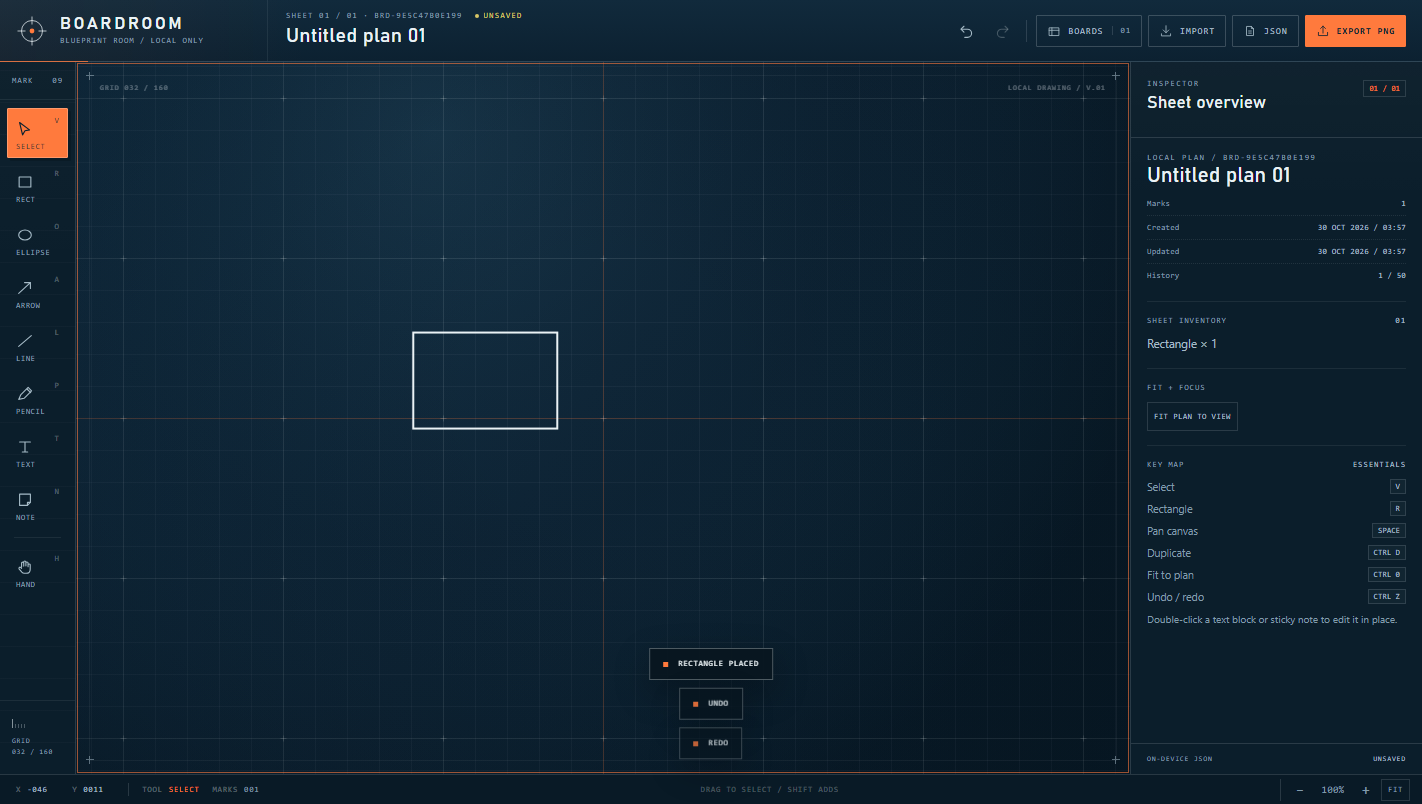
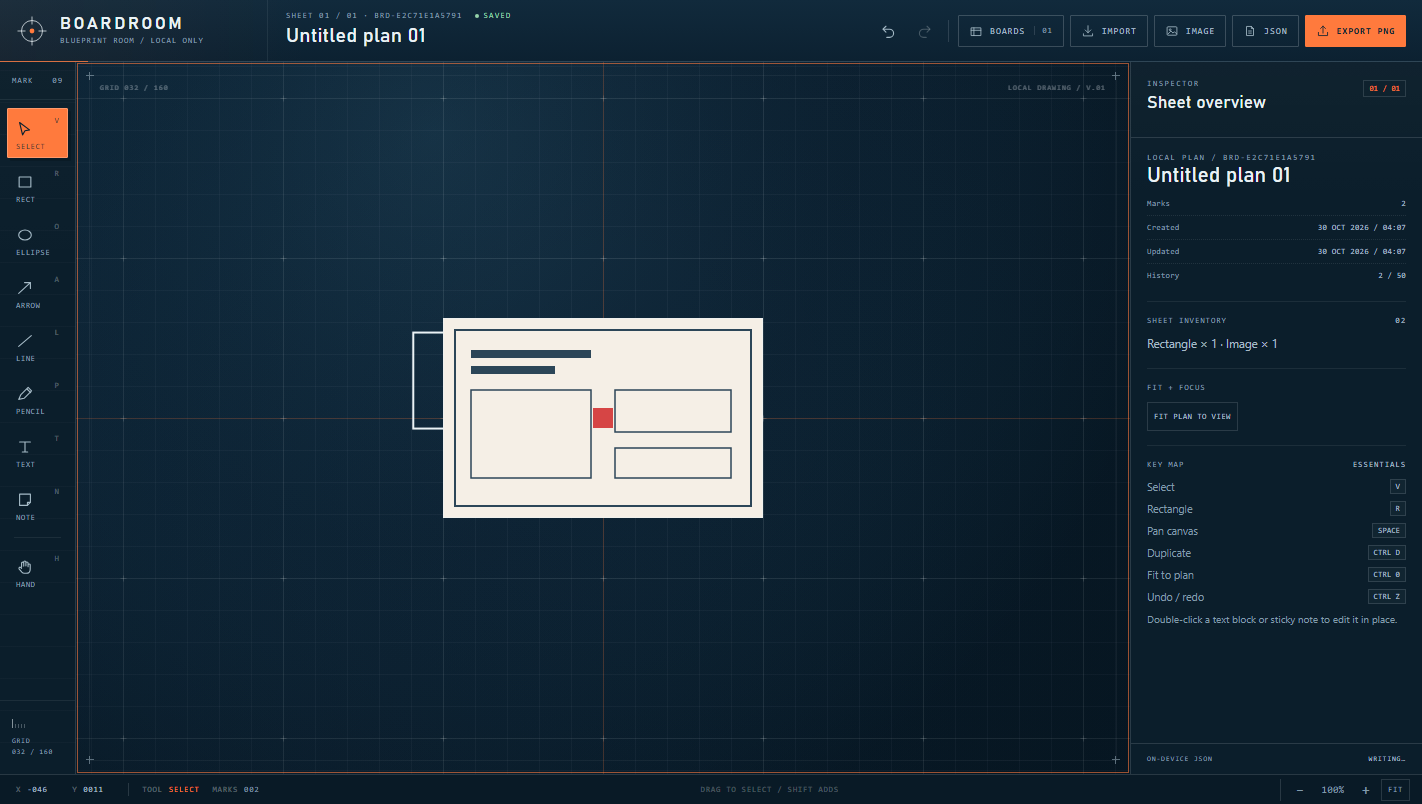
Docs: Boardroom 1.1.0 image placement

diff --git a/README.md b/README.md
@@ -6,7 +6,7 @@
 
 ### An infinite blueprint room for plans that stay on your machine.
 
-A local-first whiteboard with real tools, undo and PNG/JSON export.
+A local-first whiteboard with real tools, image placement, undo and PNG/JSON export.
 
 [![Download for Windows](https://img.shields.io/badge/Download-Windows%20x64-0D2233?style=for-the-badge&logo=windows11&logoColor=white)](https://github.com/KHHH2312/boardroom/releases/latest)
 [![Latest release](https://img.shields.io/github/v/release/KHHH2312/boardroom?style=flat-square&color=0D2233)](https://github.com/KHHH2312/boardroom/releases)
@@ -17,7 +17,7 @@ A local-first whiteboard with real tools, undo and PNG/JSON export.
 
 </div>
 
-> **New — 1.0.0** — infinite blueprint · real tools · selection · style rail.
+> **New — 1.1.0** — place PNG, JPEG and WebP images straight on the plan.
 > [Changelog →](CHANGELOG.md)
 
 ---
@@ -40,6 +40,7 @@ A local-first whiteboard with real tools, undo and PNG/JSON export.
 | **Style rail** | Chalk and fill palettes, stroke widths, opacity and type size. |
 | **History** | Fifty undo steps, redo, and keyboard-first shortcuts. |
 | **Boards library** | Create, rename, duplicate, delete; autosaved JSON per plan. |
+| **Images** | Place PNG, JPEG or WebP files; move, resize and layer them like any mark. |
 | **Export** | PNG for sharing, JSON for keeping the scene editable. |
 | **Local only** | Loopback server, strict CSP, no account and no telemetry. |
 
@@ -56,7 +57,7 @@ A local-first whiteboard with real tools, undo and PNG/JSON export.
 
 ## Install
 
-1. Download **Boardroom-1.0.0-win32-x64.zip** from [Releases](https://github.com/KHHH2312/boardroom/releases/latest).
+1. Download **Boardroom-1.1.0-win32-x64.zip** from [Releases](https://github.com/KHHH2312/boardroom/releases/latest).
 2. Verify it against `SHA256SUMS.txt`:
    ```powershell
    Get-FileHash .\Boardroom-*-win32-x64.zip -Algorithm SHA256
@@ -72,12 +73,13 @@ A local-first whiteboard with real tools, undo and PNG/JSON export.
 1. Install and launch Boardroom.
 2. Open the library and start a new plan.
 3. Pick a tool (or shortcut V/R/O/A/L/P/T/N) and draw.
-4. Undo/redo with Ctrl+Z / Ctrl+Shift+Z; export PNG or JSON from the top bar.
+4. Use **Image** to place a local PNG, JPEG or WebP on the plan.
+5. Undo/redo with Ctrl+Z / Ctrl+Shift+Z; export PNG or JSON from the top bar.
 
 ## Verified
 
-- Model/server suite: 44 checks green.
-- Browser golden path: 10 checks green — draw, autosave, undo, redo, export readiness.
+- Model/server suite: 47 checks green.
+- Browser golden path: 14 checks green — draw, autosave, undo, redo, image placement, export readiness.
 - Packaged app passes the source-parity integrity gate and ships with SHA-256 sums and a per-file manifest.
 
 ## Security and privacy

diff --git a/CHANGELOG.md b/CHANGELOG.md
@@ -1,5 +1,11 @@
 # Changelog
 
+## 1.1.0 — 2026-10-30
+
+- Place PNG, JPEG and WebP images on a plan; move, resize and layer them like any mark.
+- Images are read locally, validated in the picker and the model, and stored inline in the board JSON.
+- Model/server suite grows to 47 checks; the browser golden path grows to 14.
+
 ## 1.0.0 — 2026-10-30
 
 - First public release of Boardroom.
